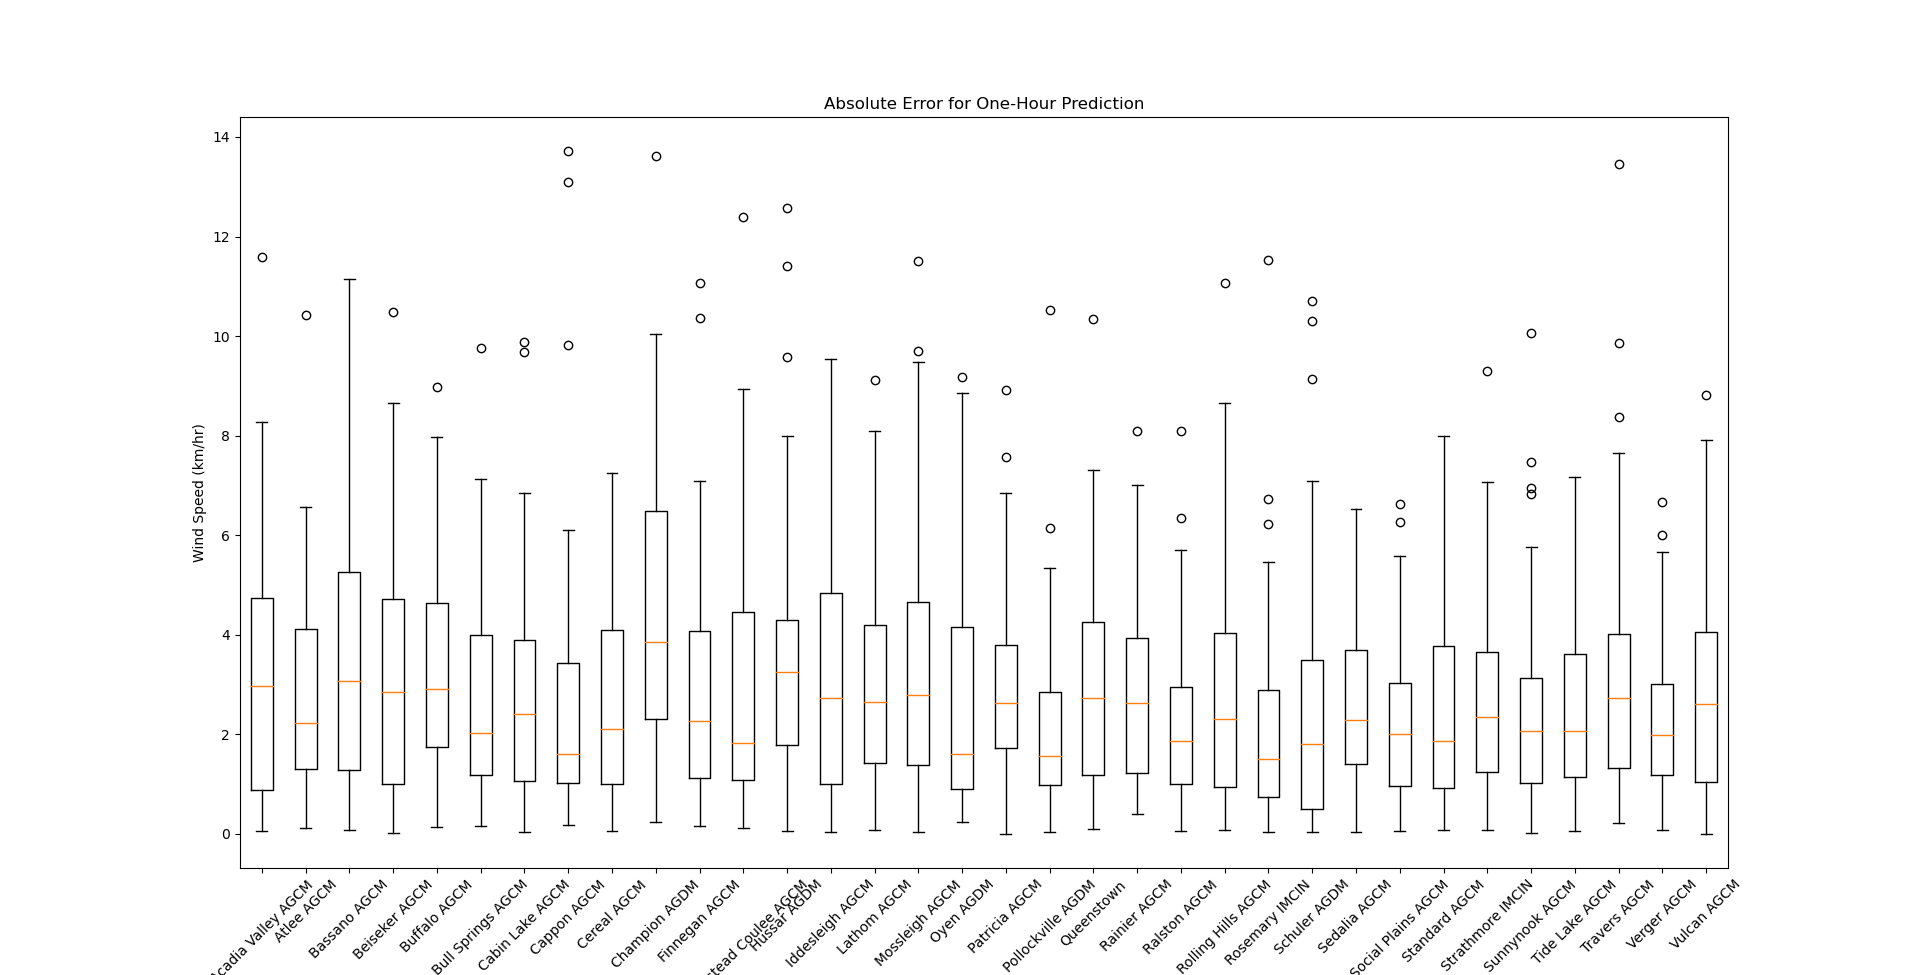
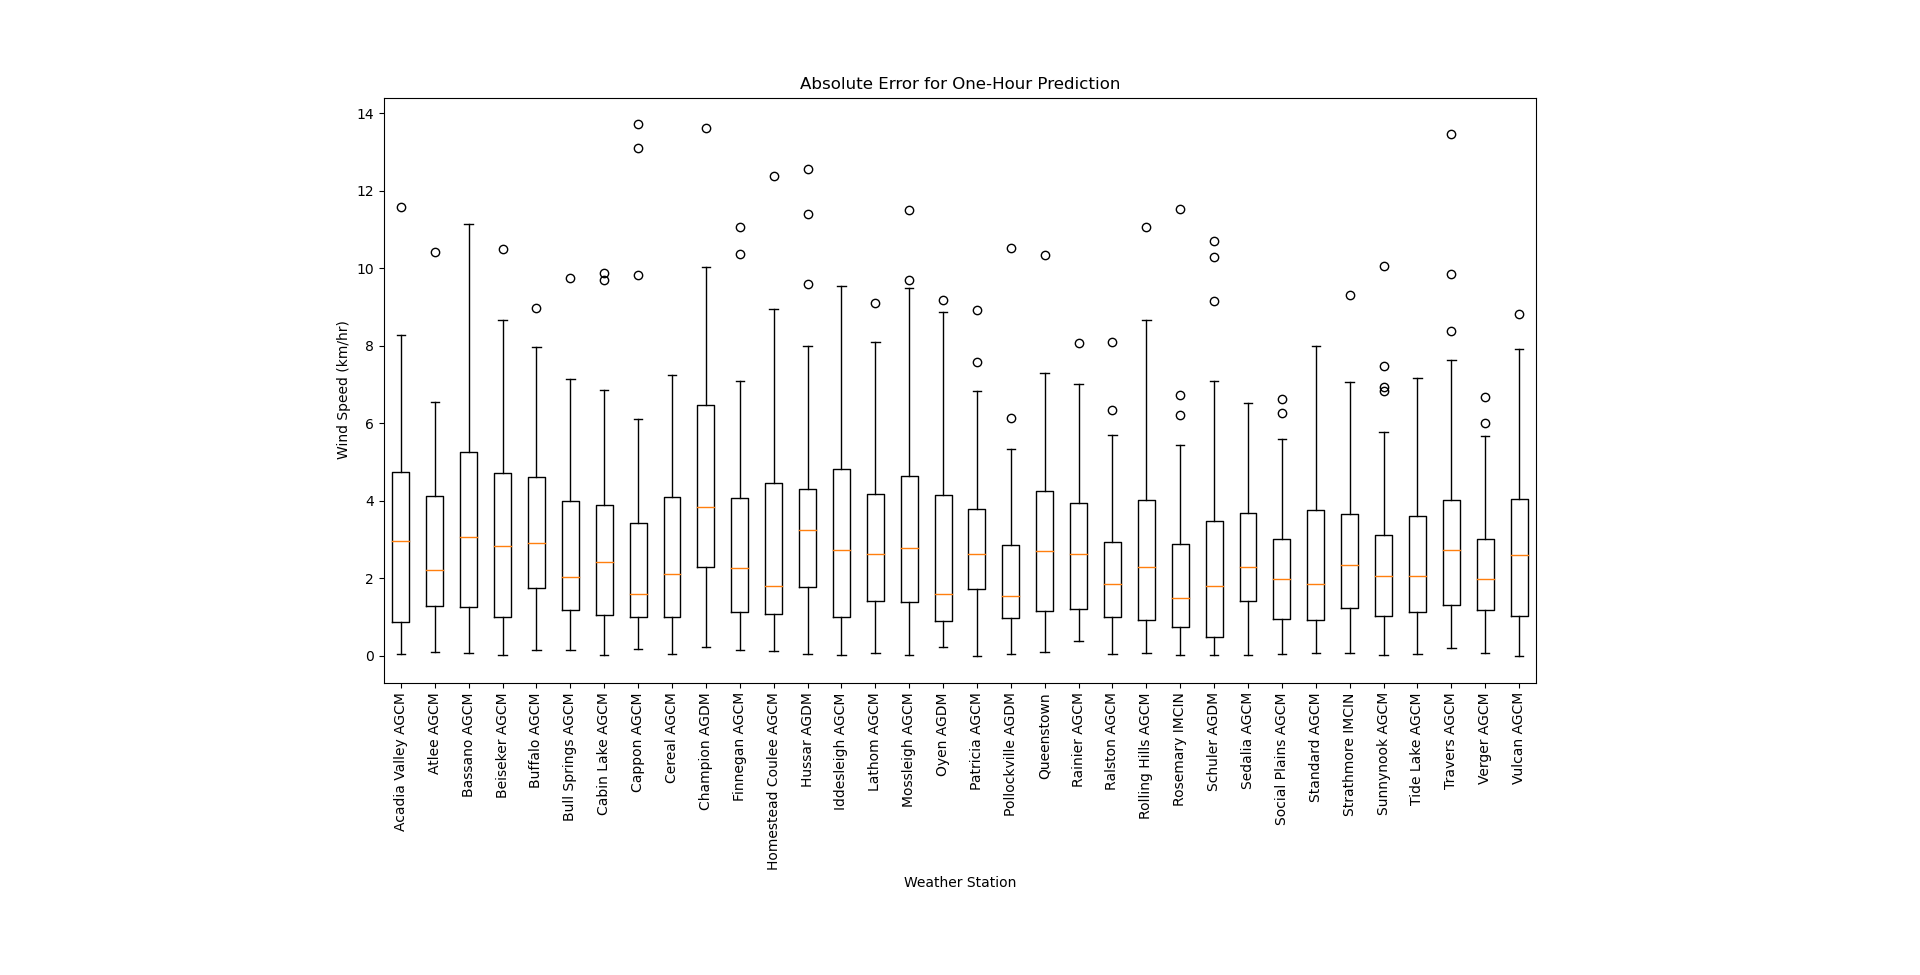
Cleaned up figures

diff --git a/src/main.py b/src/main.py
@@ -9,13 +9,14 @@ from step4_sequence_preparer import *
 
 if __name__ == "__main__":
     # Path to save best model to
-    PATH = "./wind_gnn.pth"
+    PATH = "./wind_gnn_34.pth"
 
     # Using GPU if available
     device = torch.device('cuda:0' if torch.cuda.is_available() else 'cpu')
 
     # Step 1a - Load data from both csv (measurements and coordinates)
     # Step 1b - Preprocess data
+    
     # Set large to True if you want to use the full dataset
     large = False
     df, wind_min, wind_max = load_and_process_wind_speed_dataset(dataset_size=large)
@@ -177,26 +178,29 @@ if __name__ == "__main__":
 
     fig1, ax1 = plt.subplots()
     ax1.boxplot(one_hr_df)
-    plt.xticks(ticks, stations, rotation=45)
+    plt.xticks(ticks, stations, rotation=90)
     plt.ylabel('Wind Speed (km/hr)')
     plt.xlabel('Weather Station')
     plt.title("Absolute Error for One-Hour Prediction")
+    plt.subplots_adjust(left = 0.2, bottom = 0.3, right = 0.8, top = 0.9, wspace = 0.2, hspace = 0.2)
     plt.show()
 
     fig2, ax2 = plt.subplots()
     ax2.boxplot(two_hr_df)
-    plt.xticks(ticks, stations, rotation=45)
+    plt.xticks(ticks, stations, rotation=90)
     plt.ylabel('Wind speed (km/hr)')
     plt.xlabel('Weather Station')
     plt.title("Absolute Error for Two-Hour Prediction")
+    plt.subplots_adjust(left = 0.2, bottom = 0.3, right = 0.8, top = 0.9, wspace = 0.2, hspace = 0.2)
     plt.show()
 
     fig3, ax3 = plt.subplots()
     ax3.boxplot(thr_hr_df)
-    plt.xticks(ticks, stations, rotation=45)
+    plt.xticks(ticks, stations, rotation=90)
     plt.ylabel('Wind speed (km/hr)')
     plt.xlabel('Weather Station')
     plt.title("Absolute Error for Three-Hour Prediction")
+    plt.subplots_adjust(left = 0.2, bottom = 0.3, right = 0.8, top = 0.9, wspace = 0.2, hspace = 0.2)
     plt.show()
 
     one_hour_stats_df.to_csv('one_hour.csv', index=True)

diff --git a/src/step1_loading_preprocessing.py b/src/step1_loading_preprocessing.py
@@ -2,11 +2,14 @@ import pandas as pd
 import torch
 
 
-def load_and_process_wind_speed_dataset(verbose: bool = True):
+def load_and_process_wind_speed_dataset(verbose: bool = True, dataset_size: bool = False):
     # read in the csv file
     coordinates_df = pd.read_csv(r'data/ACISStationCoordinates.csv')
-    # full_df = pd.read_csv(r'data/ACISHourlyData-20200101-20221231.csv')
-    full_df = pd.read_csv(r'data/ACISHourlyData-20200101-20221231_large.csv')
+    if dataset_size:
+        full_df = pd.read_csv(r'data/ACISHourlyData-20200101-20221231_large.csv')
+    else:
+        full_df = pd.read_csv(r'data/ACISHourlyData-20200101-20221231.csv')
+    
 
     # remove useless fields
     full_df = full_df.drop(columns=["Unnamed: 0",
